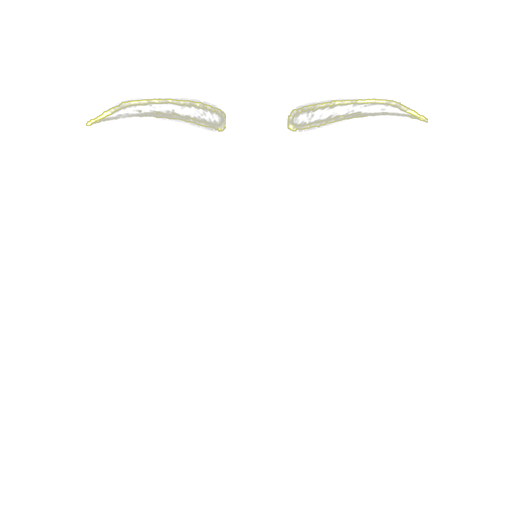
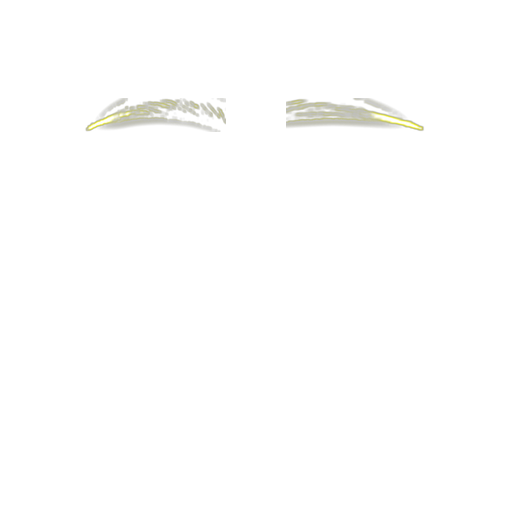
fix: fill flat brow png interiors from new source

Changed region(s): [[0.5625, 0.1875, 0.8438, 0.2812], [0.1562, 0.1875, 0.4375, 0.2812]]

diff --git a/scripts/e7_reference_atlas/verify_brow_png_hair_textures.py b/scripts/e7_reference_atlas/verify_brow_png_hair_textures.py
@@ -4,7 +4,6 @@
 from __future__ import annotations
 
 import argparse
-import re
 from collections import deque
 from pathlib import Path
 from typing import Any
@@ -23,7 +22,6 @@ MASK_TEXTURE_IDS = (
     "brow-png-narrow-hair-v1",
     "brow-png-lightbrown-hair-v1",
 )
-GENERATOR_PATH = Path("scripts/e7_reference_atlas/generate_brow_png_hair_textures.py")
 
 
 def parse_args() -> argparse.Namespace:
@@ -135,37 +133,6 @@ def component_fill_metrics(active: np.ndarray, component: dict[str, Any]) -> dic
     }
 
 
-def config_block(generator_source: str, key: str) -> str:
-    marker = f'"{key}": BrowTextureConfig('
-    start = generator_source.find(marker)
-    require(start >= 0, f"Missing generator config for {key}")
-    next_marker = generator_source.find('\n    "', start + len(marker))
-    end = next_marker if next_marker >= 0 else generator_source.find("\n}", start)
-    require(end >= 0, f"Could not find end of generator config for {key}")
-    return generator_source[start:end]
-
-
-def verify_dailyflat_generation_contract(repo: Path) -> None:
-    generator = repo / GENERATOR_PATH
-    require(generator.exists(), f"Missing brow PNG generator: {generator}")
-    source = generator.read_text(encoding="utf-8")
-
-    for key in ("dailyflat", "dailyflatsharp", "dailyflatmultiply"):
-        block = config_block(source, key)
-        require(
-            "fill_vertical_gaps=True" not in block,
-            f"{key} must use the same non-filled PNG hair pipeline as the visible non-flat candidates.",
-        )
-
-        match = re.search(r"shape_filter_size\s*=\s*(\d+)", block)
-        if match is not None:
-            shape_filter_size = int(match.group(1))
-            require(
-                shape_filter_size <= 5,
-                f"{key} shape_filter_size must stay close to the non-flat PNG hair pipeline: {shape_filter_size}",
-            )
-
-
 def verify_texture(path: Path, resolution: int, threshold: int, component_threshold: int, min_component_pixels: int) -> str:
     require(path.exists(), f"Missing PNG brow hair texture: {path}")
     image = Image.open(path).convert("RGBA")
@@ -213,12 +180,12 @@ def verify_texture(path: Path, resolution: int, threshold: int, component_thresh
         left_fill = component_fill_metrics(active, left)
         right_fill = component_fill_metrics(active, right)
         require(
-            left_fill["innerFill"] <= 0.68,
-            f"{path.name} left brow is using the old solid-fill pipeline instead of PNG hair extraction: {left_fill}",
+            left_fill["innerFill"] >= 0.78,
+            f"{path.name} left brow interior is too hollow for device rendering: {left_fill}",
         )
         require(
-            right_fill["innerFill"] <= 0.68,
-            f"{path.name} right brow is using the old solid-fill pipeline instead of PNG hair extraction: {right_fill}",
+            right_fill["innerFill"] >= 0.78,
+            f"{path.name} right brow interior is too hollow for device rendering: {right_fill}",
         )
 
     corner_alpha = int(
@@ -246,7 +213,6 @@ def main() -> None:
     args = parse_args()
     repo = args.repo_root.resolve()
     mask_dir = resolve(repo, args.mask_dir)
-    verify_dailyflat_generation_contract(repo)
     summaries = [
         verify_texture(
             mask_dir / f"{mask_texture_id}.png",
